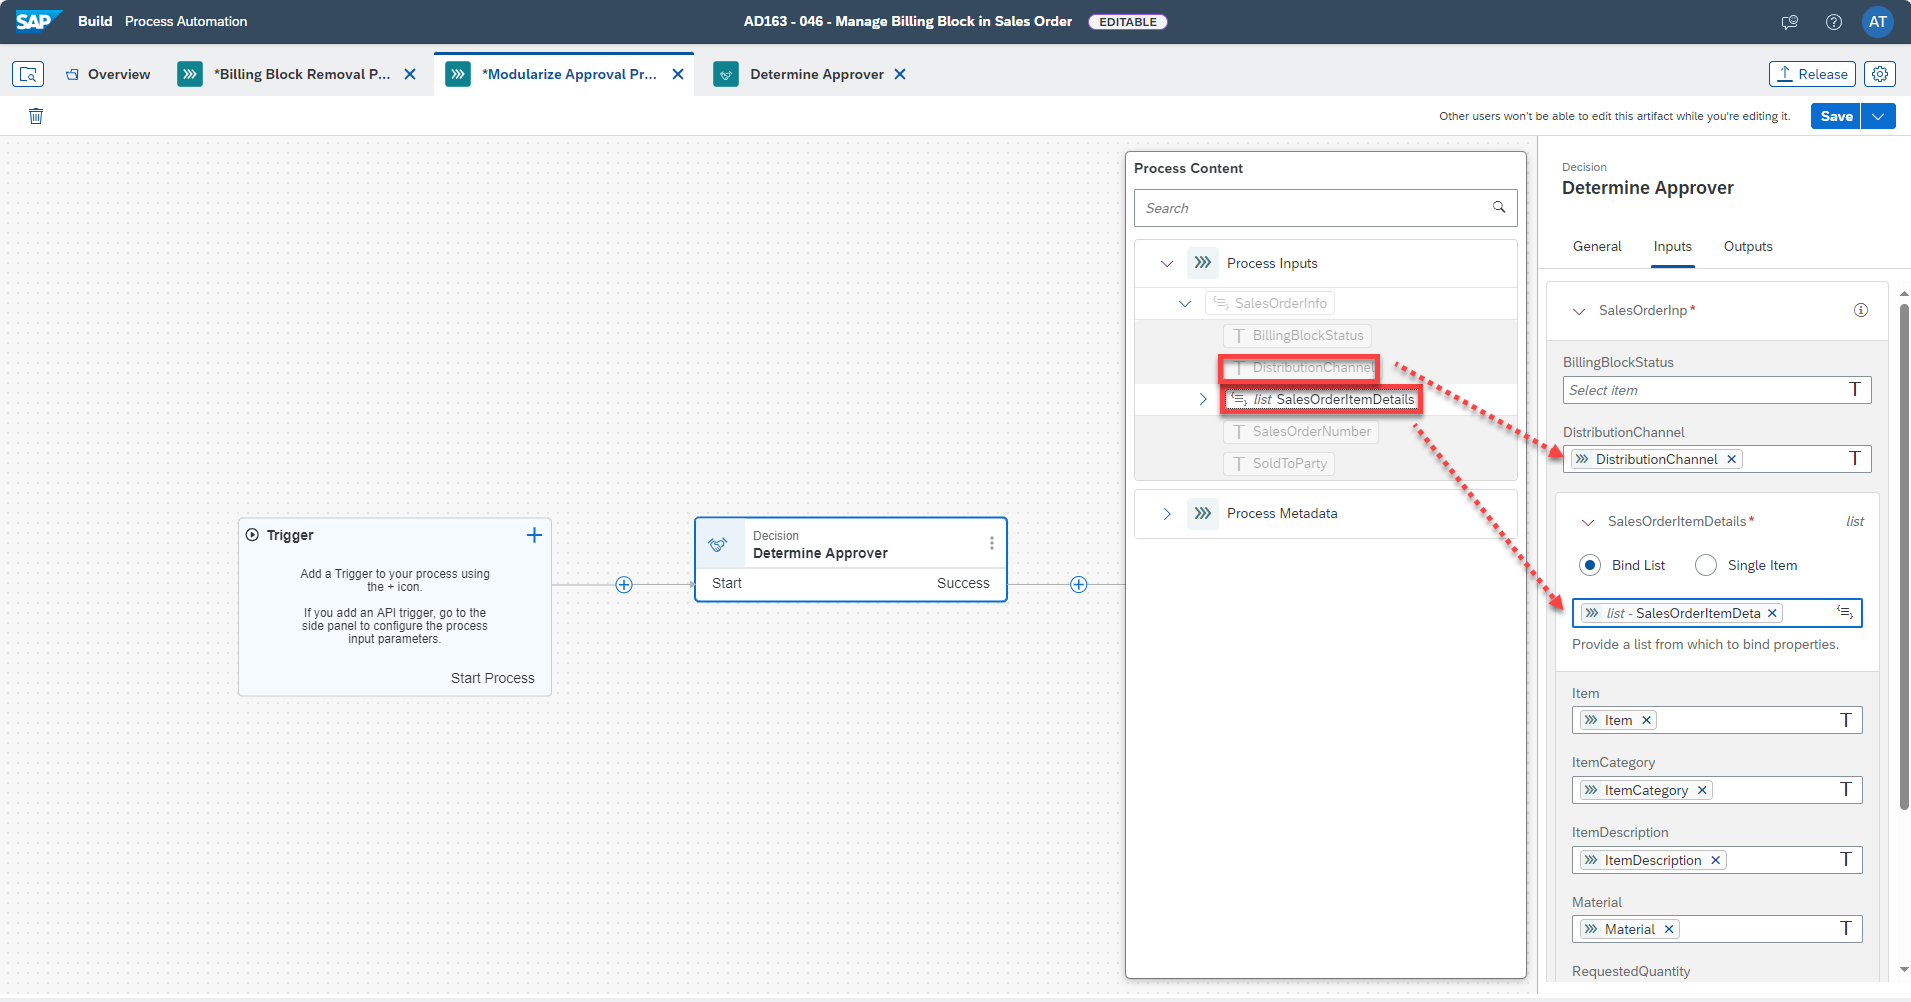
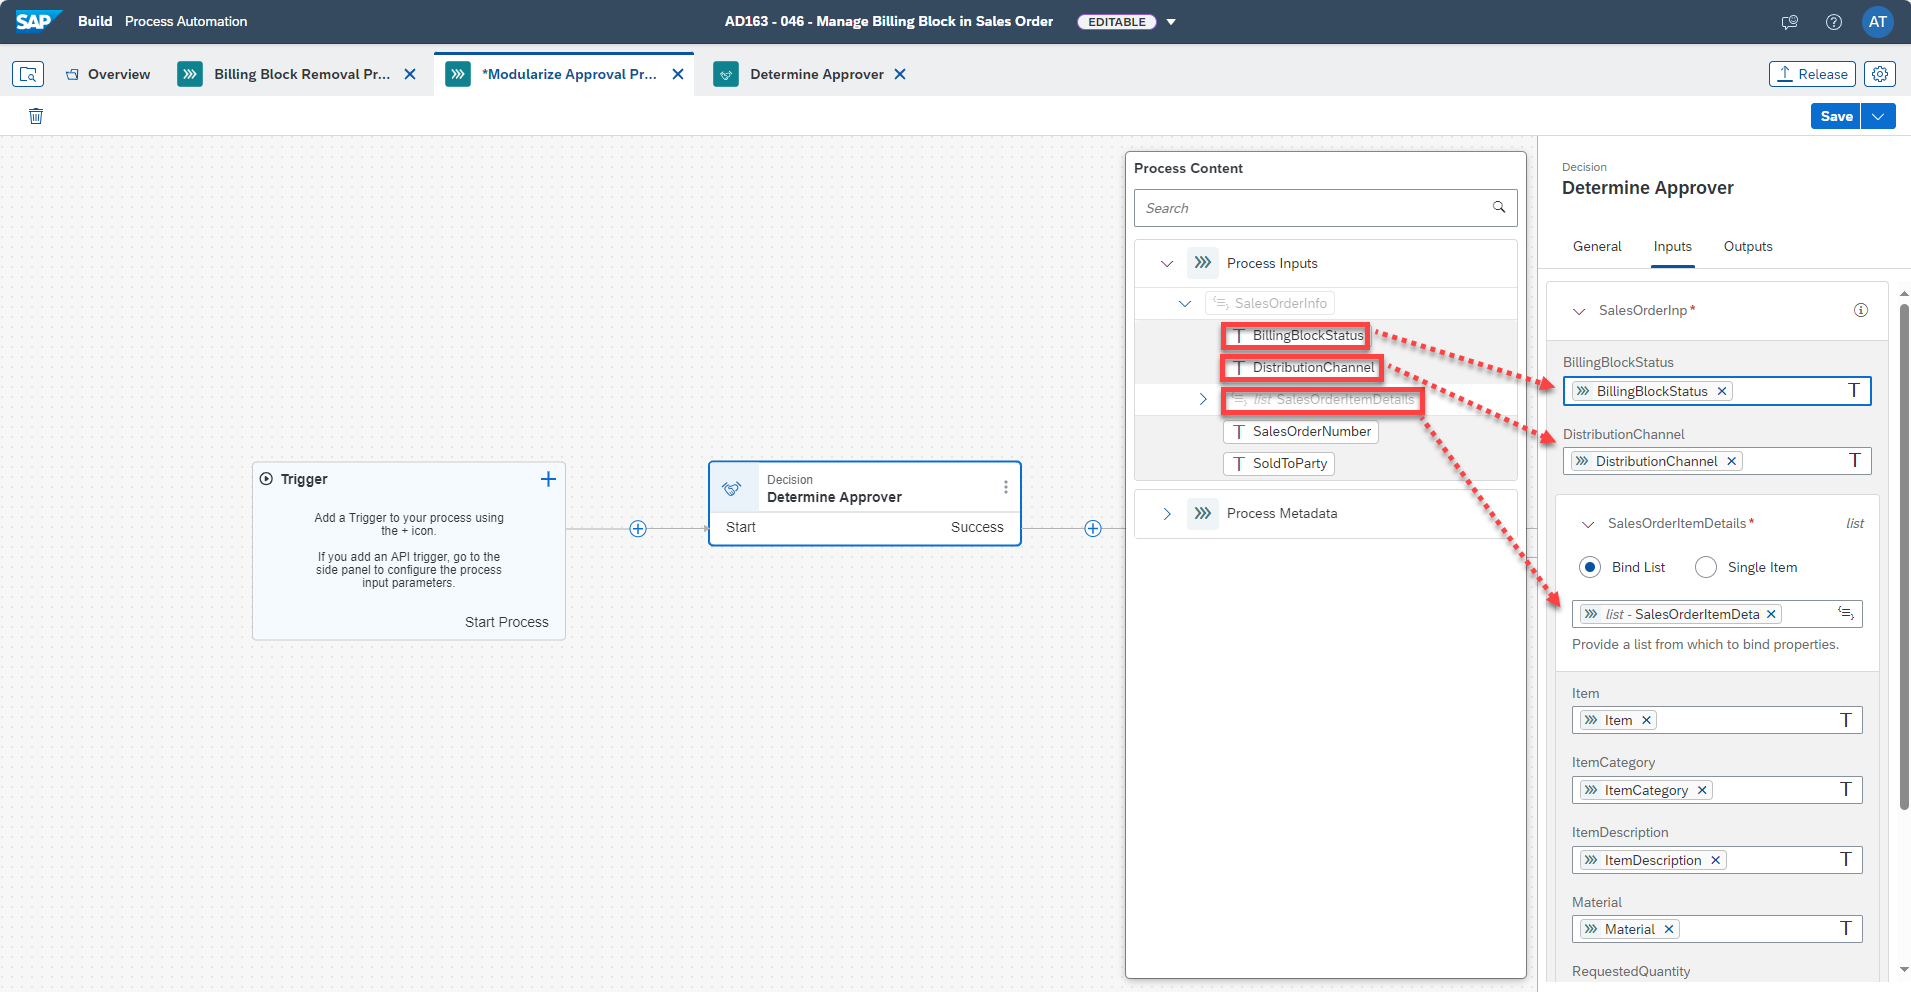
small edit

diff --git a/exercises/2_CreateProcess/README.md b/exercises/2_CreateProcess/README.md
@@ -288,17 +288,17 @@ In this exercise you will learn:
 
   ![02](./images//032.png)
 
-15. Under **SalesOrderInp**, map **DistributionChannel** to **Process Inputs > SalesOrderInfo > DistributionChannel**.
+  - Under **SalesOrderInp**, map **DistributionChannel** to **Process Inputs > SalesOrderInfo > DistributionChannel**.
     
-16. Under **SalesOrderItemDetails**, bind list to **Process Inputs > SalesOrderInfo > list SalesOrderItemDetails**.
+  - Under **SalesOrderItemDetails**, bind list to **Process Inputs > SalesOrderInfo > list SalesOrderItemDetails**.
 
   ![02](./images//033.png)
 
-17. Under **SalesOrderInp**, map **SalesOrderNumber** to **Process Inputs > SalesOrderInfo > SalesOrderNumber**.
+  - Under **SalesOrderInp**, map **SalesOrderNumber** to **Process Inputs > SalesOrderInfo > SalesOrderNumber**.
     
-18. Under **SalesOrderInp**, map **SoldToParty** to **Process Inputs > SalesOrderInfo > SoldToParty**.
+  - Under **SalesOrderInp**, map **SoldToParty** to **Process Inputs > SalesOrderInfo > SoldToParty**.
 
-19. Save your work.
+15.  Save your work.
 
   ![02](./images//034.png)
 
